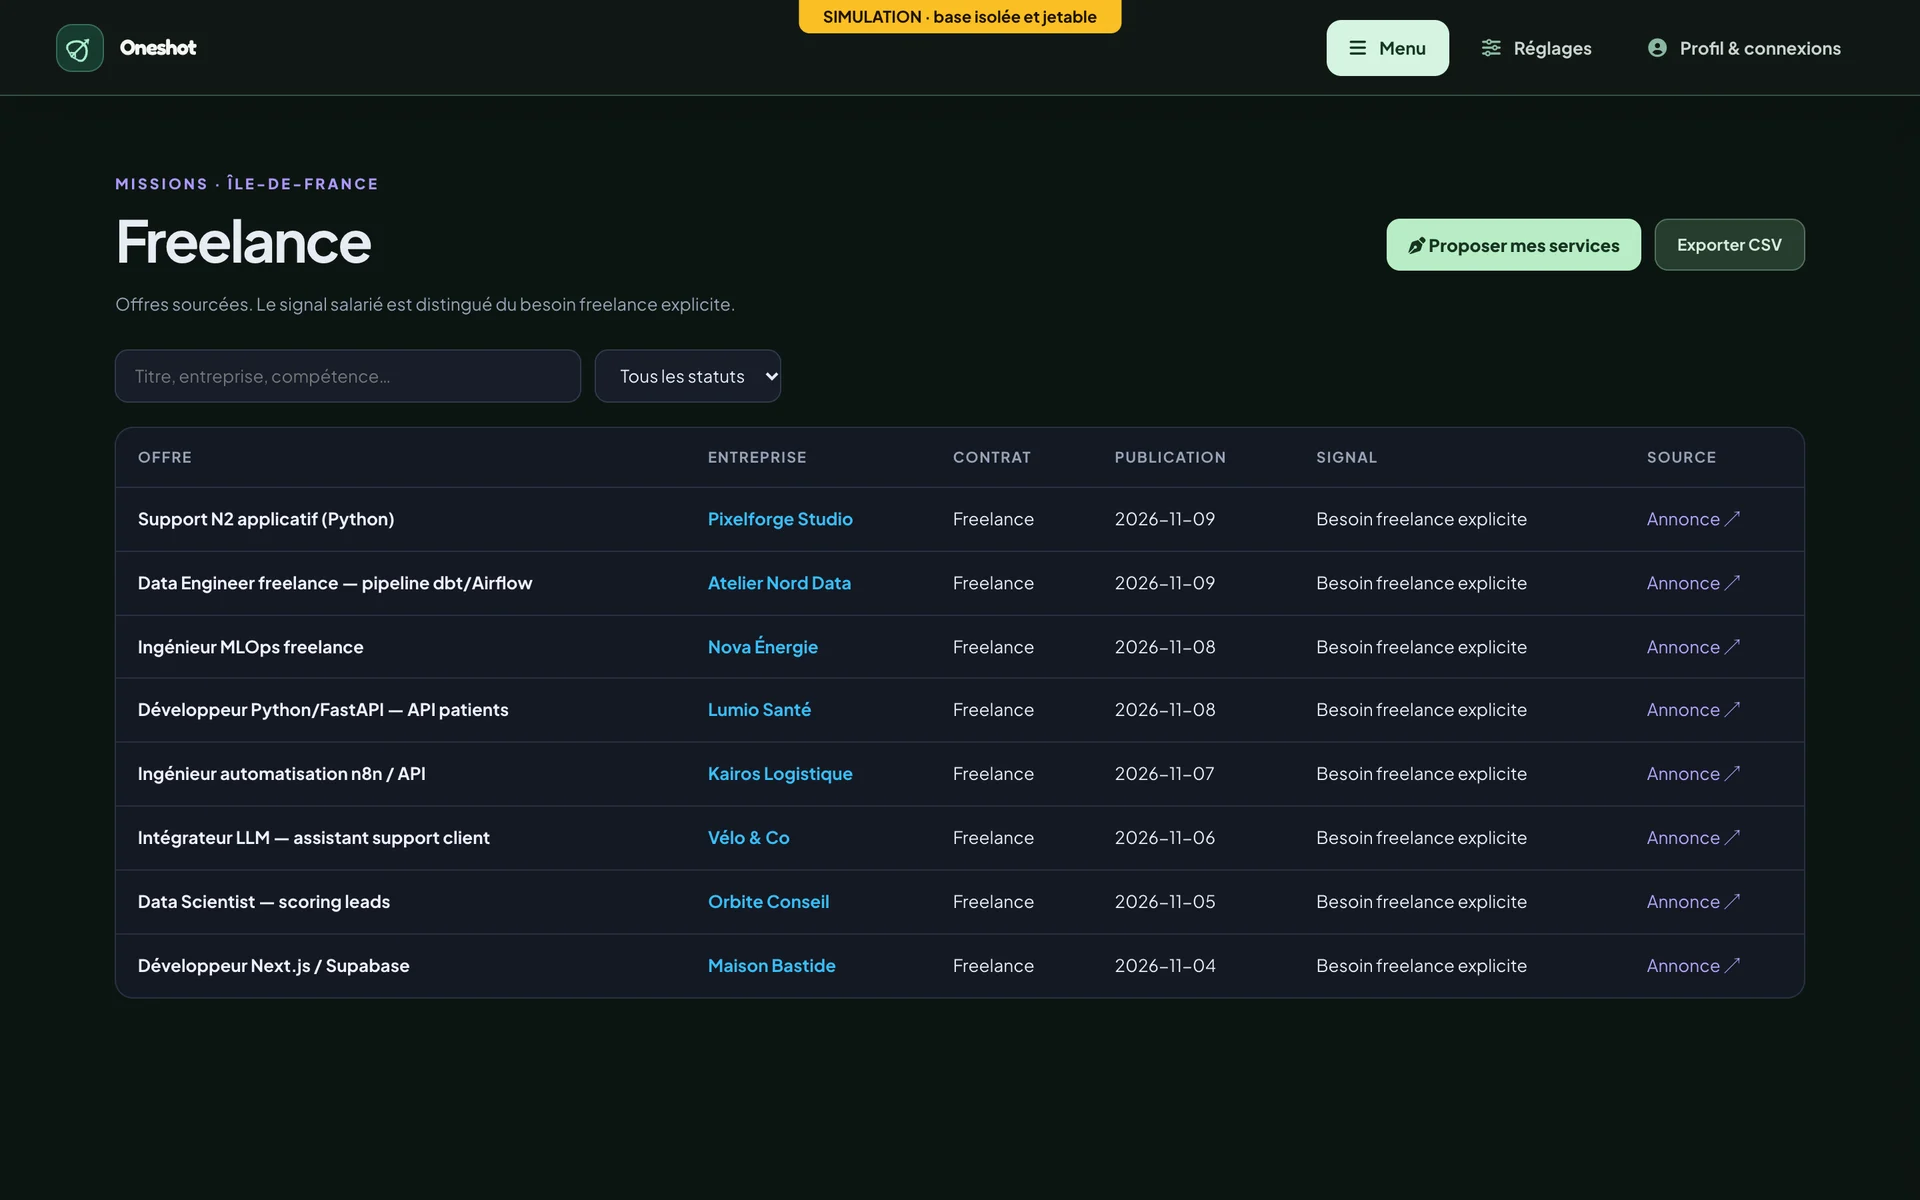
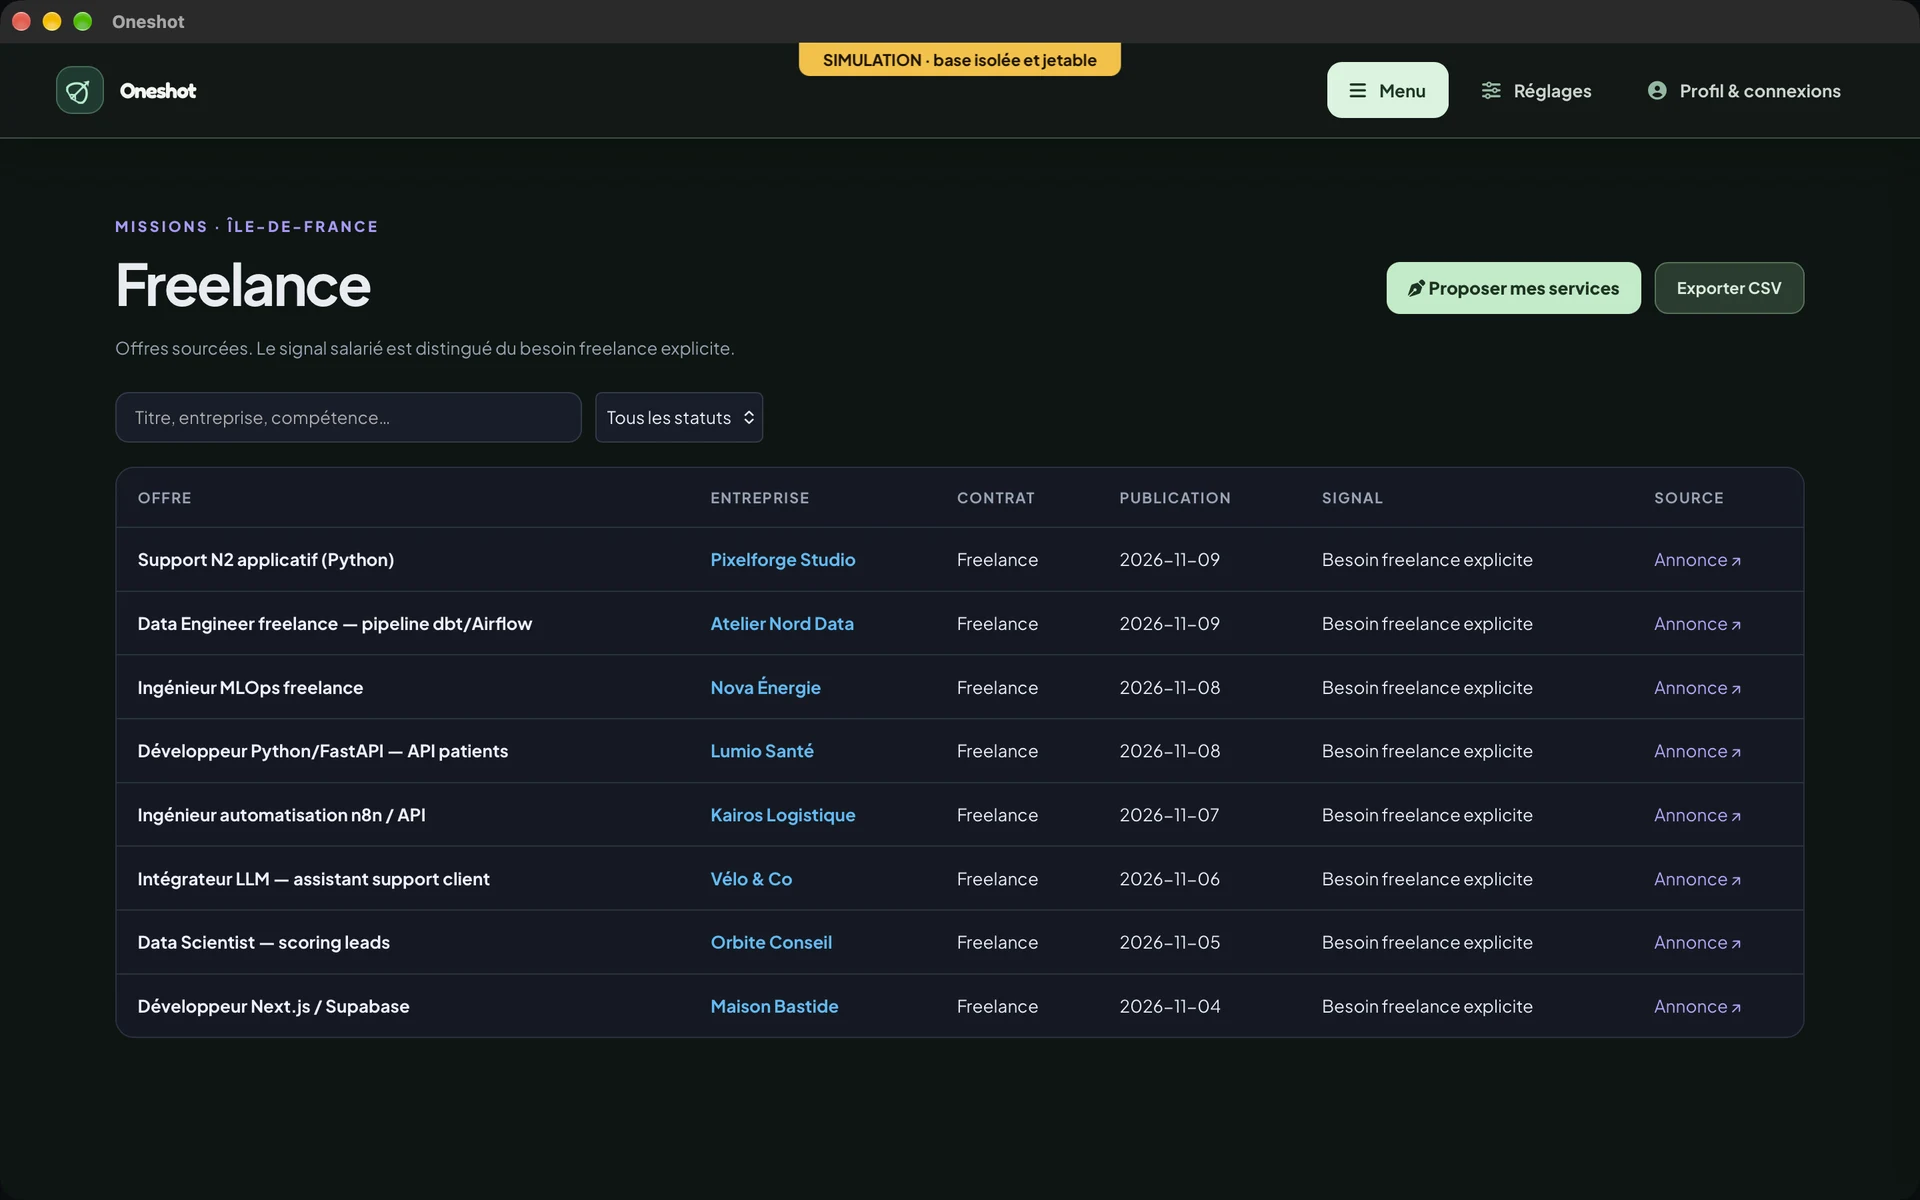
OneShot: photos taken in the native macOS app window (simulation mode)

diff --git a/apps/portfolio/src/lib/stories.ts b/apps/portfolio/src/lib/stories.ts
@@ -630,35 +630,35 @@ export const stories: Story[] = [
         label: "Accueil : priorités du jour",
         expected: "Accueil : priorités du jour",
         src: "/project-visuals/oneshot-accueil.webp",
-        origin: "Capture de l’application · base de démonstration, mode simulation",
+        origin: "Fenêtre de l’application macOS · base de démonstration, mode simulation",
         orientation: "landscape",
       },
       {
         label: "Entonnoir de conversion",
         expected: "Entonnoir de conversion",
         src: "/project-visuals/oneshot-entonnoir.webp",
-        origin: "Capture de l’application · événements réels uniquement, aucun taux artificiel",
+        origin: "Fenêtre de l’application macOS · événements réels uniquement, aucun taux artificiel",
         orientation: "landscape",
       },
       {
         label: "Missions freelance",
         expected: "Missions freelance",
         src: "/project-visuals/oneshot-freelance.webp",
-        origin: "Capture de l’application · offres fictives de démonstration, chacune avec sa source",
+        origin: "Fenêtre de l’application macOS · offres fictives de démonstration, chacune avec sa source",
         orientation: "landscape",
       },
       {
         label: "À appeler",
         expected: "À appeler",
         src: "/project-visuals/oneshot-appels.webp",
-        origin: "Capture de l’application · suivi des appels",
+        origin: "Fenêtre de l’application macOS · suivi des appels",
         orientation: "landscape",
       },
       {
         label: "Réglages",
         expected: "Réglages",
         src: "/project-visuals/oneshot-reglages.webp",
-        origin: "Capture de l’application · offres de service, recherche Treg à coût plafonné",
+        origin: "Fenêtre de l’application macOS · offres de service, recherche Treg à coût plafonné",
         orientation: "landscape",
       },
     ],
